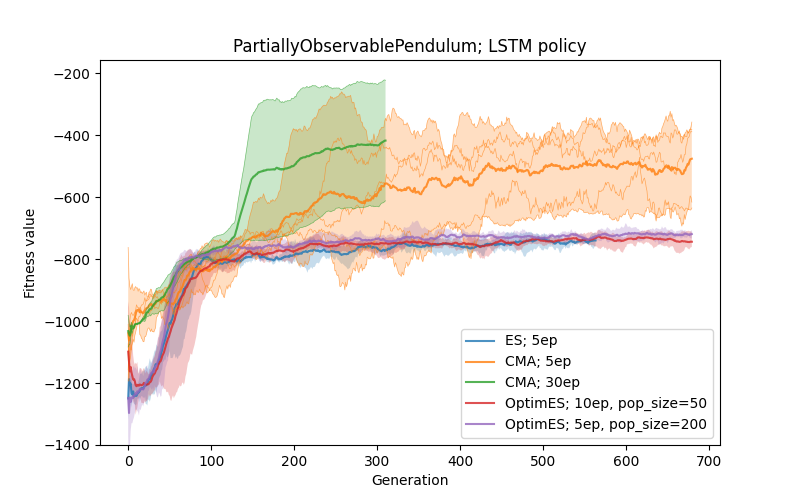
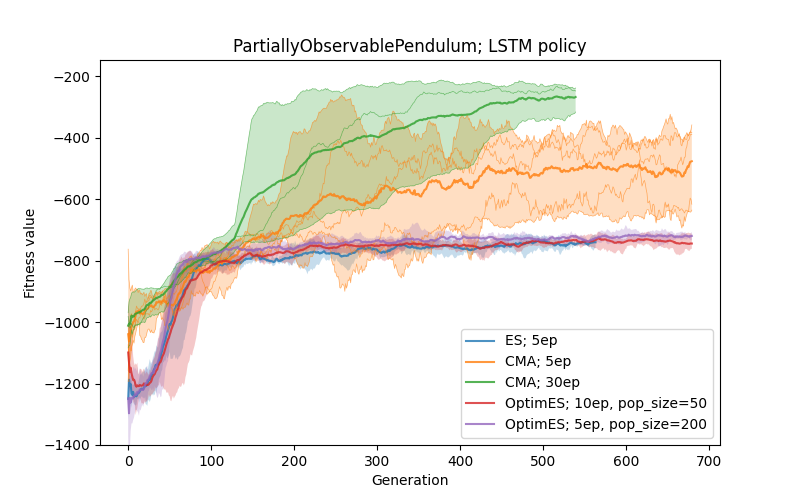
graph updated

diff --git a/blogpost/plot_comparison.py b/blogpost/plot_comparison.py
@@ -154,7 +154,7 @@ def pendulum():
     """Plot results of the partially observable pendulum from the Sacred"""
 
     cma = [5160, 5162, 5163, 5165, 5167]
-    cma_30ep = [5231, 5232]  # , 5243, 5235]  # these two are running
+    cma_30ep = [5231, 5232, 5235]  # , 5243]  # these two are running
     optim_es = [5122, 5123, 5124, 5126, 5127, 5129]
     optim_es_pop_size200 = [5154, 5156, 5157, 5158, 5159]
     es = [5114, 5115, 5117, 5118, 5119]
